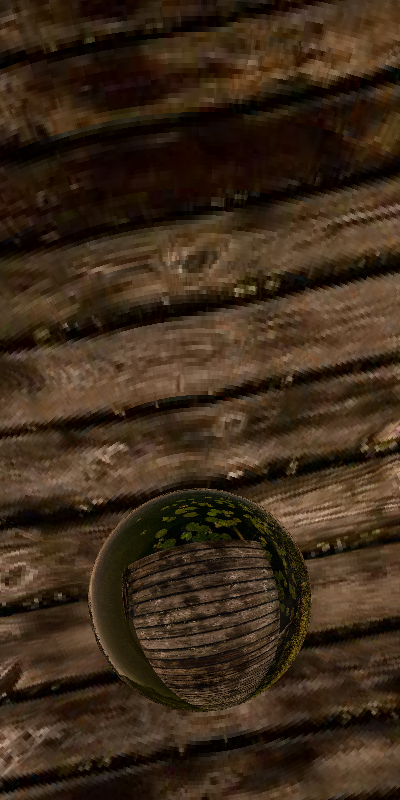
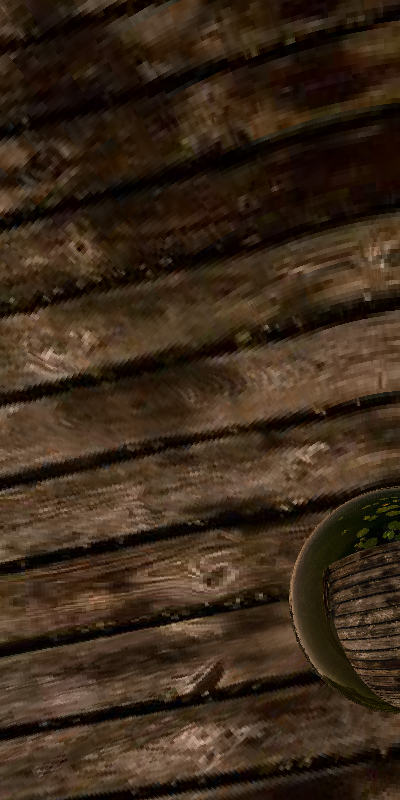
add eye rotation

diff --git a/src/scene.cpp b/src/scene.cpp
@@ -193,6 +193,9 @@ void Scene::render(Image &img)
                         h - 1 - y + j / (supersamplingFactor + 1),
                         0);
                     Ray ray(eye, (pixel - eye).normalized());
+
+                    ray.D = ray.D.rotate(eyeRotation);
+
                     Color subcol = trace(ray, recursionDepth);
                     subcol.clamp();
 
@@ -209,7 +212,7 @@ void Scene::render(Image &img)
 // --- Misc functions ----------------------------------------------------------
 
 // Defaults
-Scene::Scene() : objects(), lights(), eye(), renderShadows(false), recursionDepth(0), supersamplingFactor(1) {}
+Scene::Scene() : objects(), lights(), eye(), renderShadows(false), recursionDepth(0), supersamplingFactor(1), width(200), height(200), eyeRotation(Triple(0, 0, 0)) {}
 
 void Scene::addObject(ObjectPtr obj) { objects.push_back(obj); }
 
@@ -234,3 +237,5 @@ void Scene::setHeight(unsigned height) { this->height = height; }
 unsigned Scene::getWidth() { return width; }
 
 unsigned Scene::getHeight() { return height; }
+
+void Scene::setEyeRotation(Triple const &rotation) { this->eyeRotation = rotation; }

diff --git a/src/raytracer.cpp b/src/raytracer.cpp
@@ -144,11 +144,14 @@ try
     // -- Read your scene data in this section -------------------------------------
     // =============================================================================
 
+    scene.setWidth(jsonscene["Width"]);
+    scene.setHeight(jsonscene["Height"]);
+
     Point eye(jsonscene["Eye"]);
     scene.setEye(eye);
 
-    scene.setWidth(jsonscene["Width"]);
-    scene.setHeight(jsonscene["Height"]);
+    Triple eyeRotation(jsonscene["EyeRotation"]);
+    scene.setEyeRotation(eyeRotation);
 
     if (jsonscene.count("MaxRecursionDepth"))
     {

diff --git a/src/scene.h b/src/scene.h
@@ -20,6 +20,7 @@ class Scene
     std::vector<ObjectPtr> objects;
     std::vector<LightPtr> lights;
     Point eye;
+    Triple eyeRotation;
     bool renderShadows;
     unsigned recursionDepth;
     unsigned supersamplingFactor;
@@ -51,6 +52,7 @@ public:
     void setSuperSample(unsigned factor);
     void setWidth(unsigned width);
     void setHeight(unsigned height);
+    void setEyeRotation(Triple const &rotation);
 
     unsigned getNumObject();
     unsigned getNumLights();
